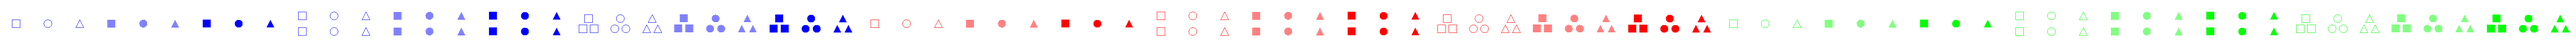
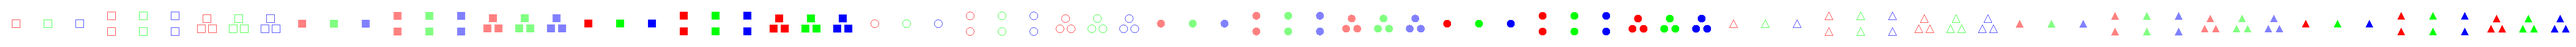
add funky drop shadow

diff --git a/web/styles/tau.css b/web/styles/tau.css
@@ -1,23 +1,57 @@
 /* have to include border in width/height */
 .fakeCard {
-    width:82px;
-    height:122px;
+    width:84px;
+    height:124px;
 }
 
 .realCard {
-    height:120px;
-    width:80px;
-    background:url('/images/cards.png') no-repeat scroll 0 0 transparent;
+    height:124px;
+    width:84px;
 }
 
-.selectedCard {
+.unselectedCard .cardShadow {
+	background-color:#ddd;
+}
+
+.selectedCard .cardShadow {
+    background-color:#FCC;
+}
+
+.cardShadow {
+    height:122px;
+    width:82px;
+    position: absolute;
+    left: 2px;
+    top: 2px;
+    -webkit-border-radius:5px;
+    -moz-border-radius:5px;
+    z-index:-1;
+}
+
+.unselectedCard .cardContent {
+    background:url('/images/cards.png') no-repeat scroll 0 0 #fff;
+}
+
+.selectedCard .cardContent {
+    background:url('/images/cards.png') no-repeat scroll 0 0 #fff;
+}
+
+.cardContent {
+	height:120px;
+	width:80px;
+	z-index:3;
+	-webkit-border-radius:5px;
+    -moz-border-radius:5px;
+}
+
+.selectedCard .cardContent {
     border-color:red;
     border-width:1px;
     border-style:solid;
 }
 
-.unselectedCard {
-    border-color:black;
+.unselectedCard .cardContent {
+    border-color:#bbb;
     border-width:1px;
     border-style:solid;
 }

diff --git a/src/com/taugame/tau/client/GameView.java b/src/com/taugame/tau/client/GameView.java
@@ -10,10 +10,12 @@ import com.google.gwt.event.dom.client.ClickHandler;
 import com.google.gwt.event.dom.client.MouseDownEvent;
 import com.google.gwt.event.dom.client.MouseDownHandler;
 import com.google.gwt.user.client.Event;
+import com.google.gwt.user.client.ui.AbsolutePanel;
 import com.google.gwt.user.client.ui.Button;
 import com.google.gwt.user.client.ui.FlexTable;
 import com.google.gwt.user.client.ui.Grid;
 import com.google.gwt.user.client.ui.Label;
+import com.google.gwt.user.client.ui.Panel;
 import com.google.gwt.user.client.ui.VerticalPanel;
 import com.google.gwt.user.client.ui.Widget;
 import com.taugame.tau.shared.Card;
@@ -104,8 +106,17 @@ public final class GameView implements View, ClickHandler, NativeEventHandler {
                     }
                     int cardNumber = card.get(0) + 3 * card.get(1) + 9 * card.get(2) + 27 * card.get(3);
                     int offset = cardNumber * 80;
-                    cardPanel.getElement().setAttribute("style",
+
+                    Panel cardContent = new AbsolutePanel();
+                    cardContent.setStyleName("cardContent");
+                    Panel cardShadow = new AbsolutePanel();
+                    cardShadow.setStyleName("cardShadow");
+                    cardShadow.getElement().setAttribute("style", "");
+                    cardPanel.add(cardContent);
+                    cardPanel.add(cardShadow);
+                    cardContent.getElement().setAttribute("style",
                             "background-position: -" + offset + "px 0;");
+
                     cardPanel.addMouseDownHandler(new MouseDownHandler() {
                         @Override
                         public void onMouseDown(MouseDownEvent event) {
